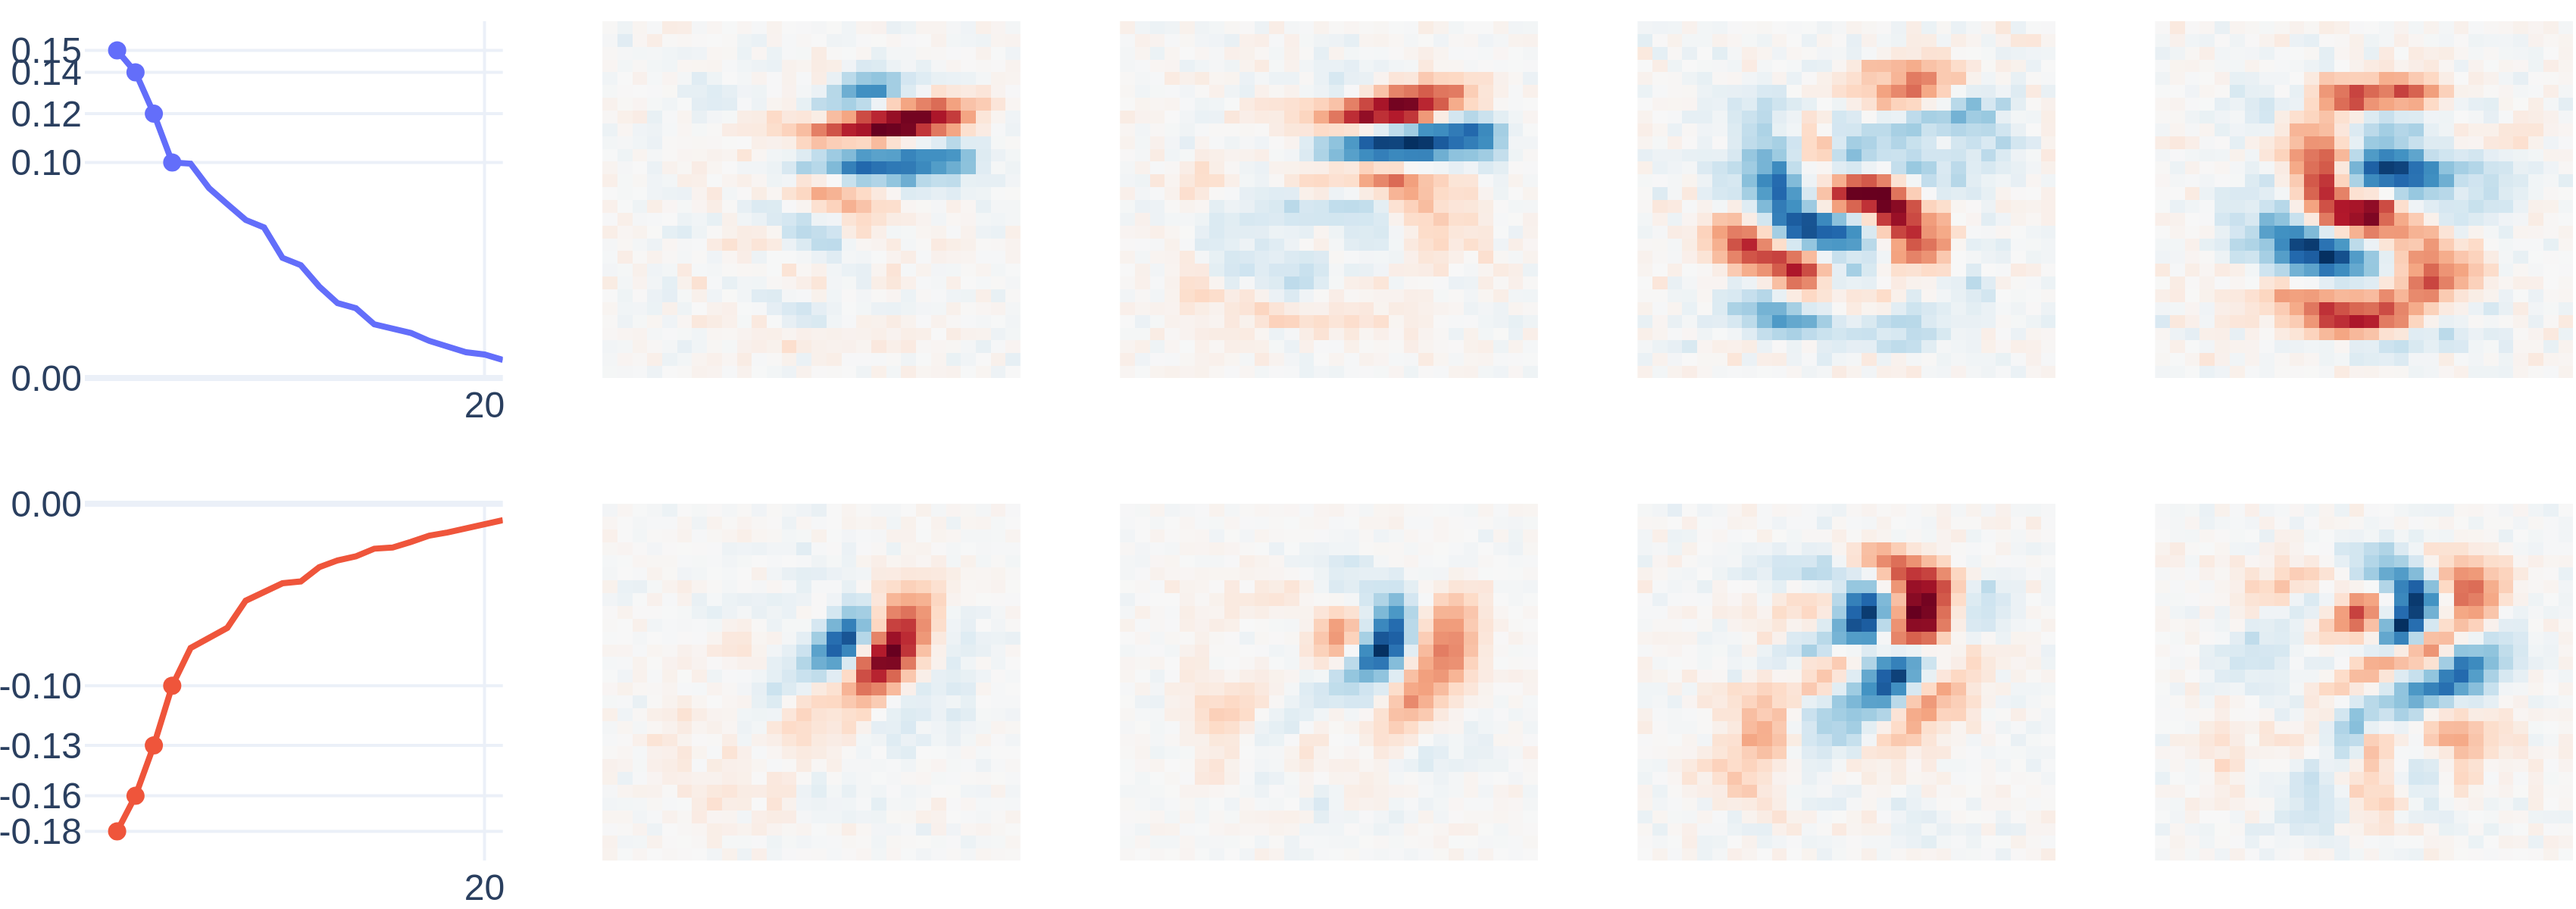
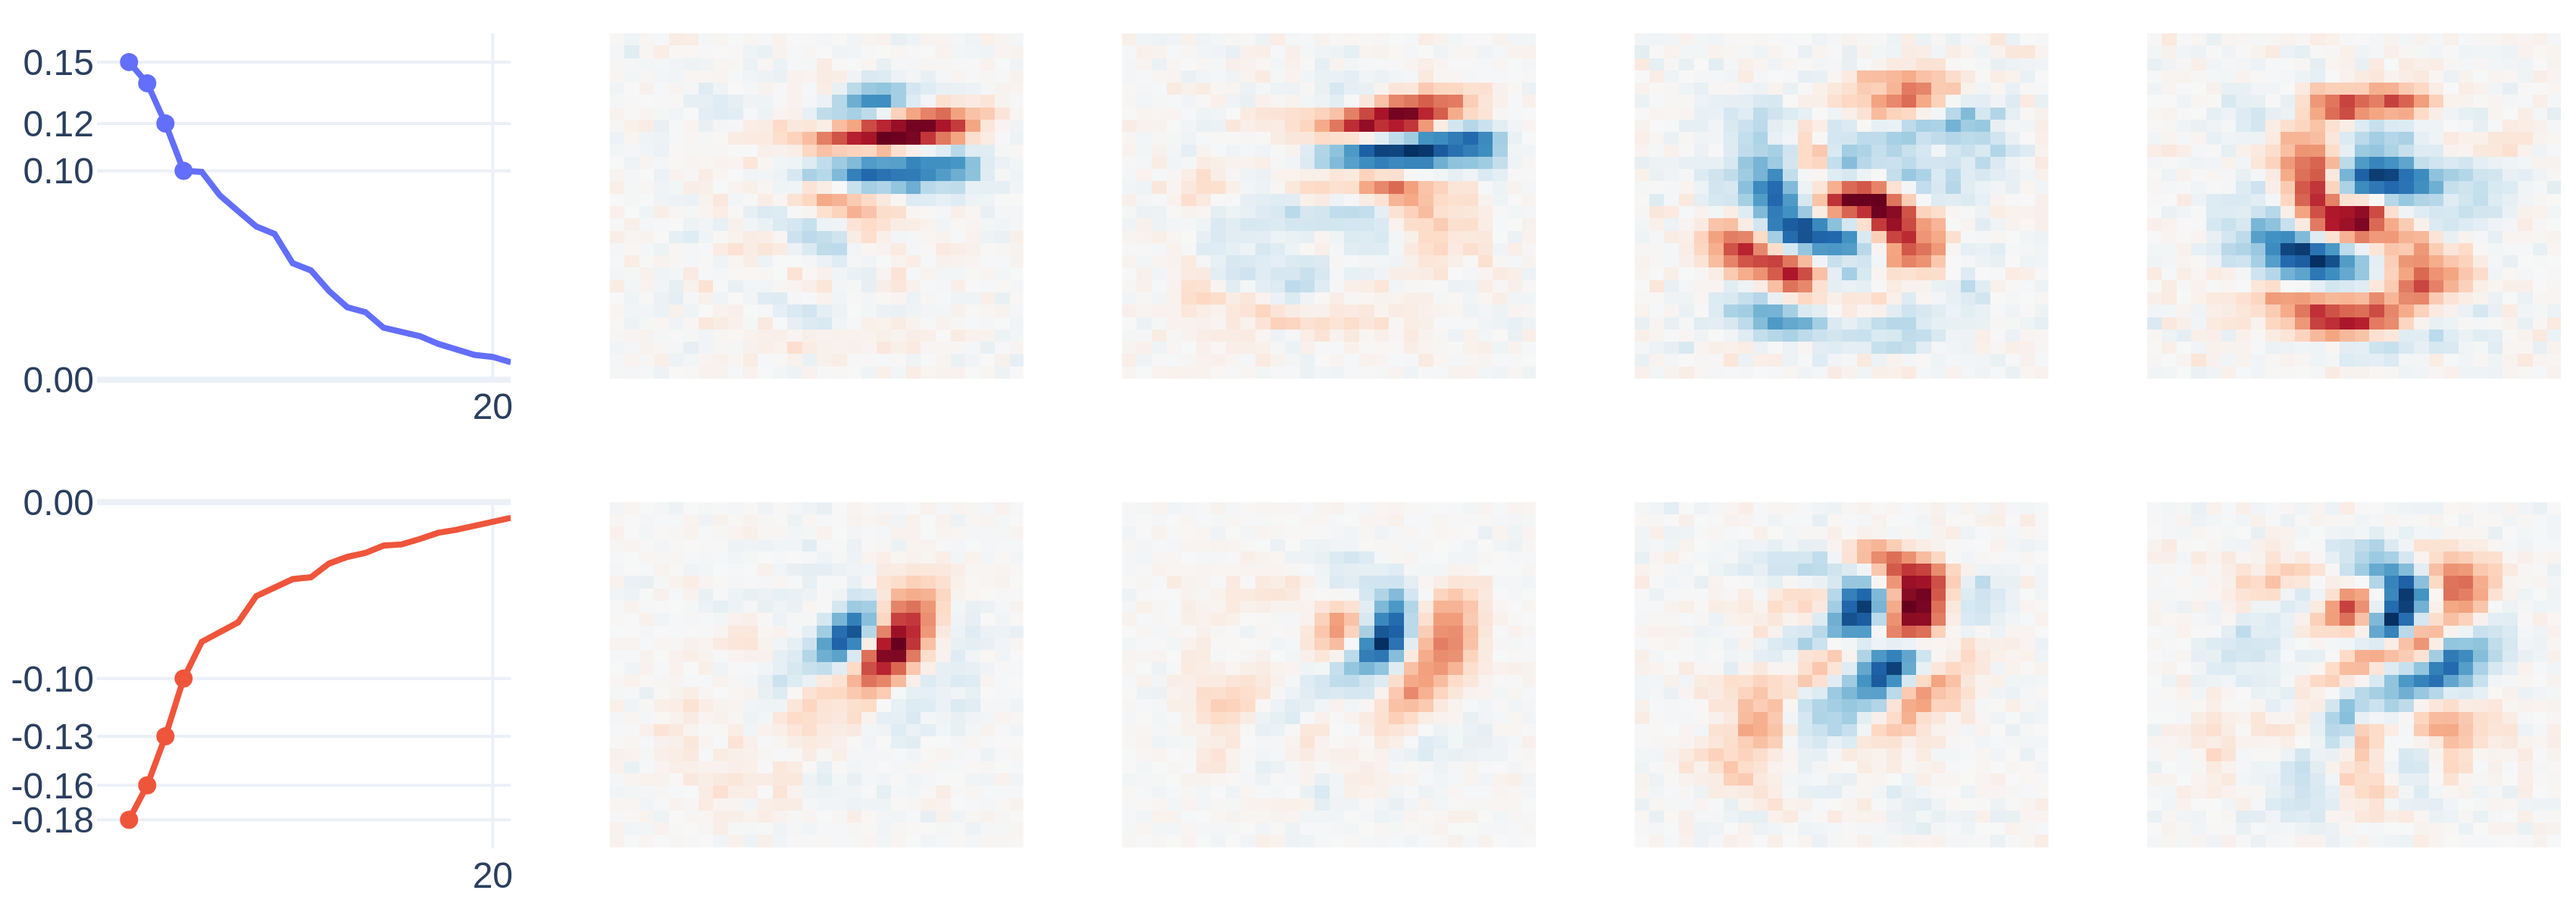
Improve figure layouts for fig_03, fig_05a, exp05 and exp11

diff --git a/extension/bilinear-full/experiments/exp11_v1_failure.py b/extension/bilinear-full/experiments/exp11_v1_failure.py
@@ -143,8 +143,9 @@ def main():
     print(f"Latent std (V2): {v2_std.round(3)}")
     print(f"V1 symmetry verified: f(z)=f(-z), max diff={max_diff:.2e}")
 
-    # Pick 5 examples per set for display
-    idx = [torch.where(labels == c)[0][0].item() for c in range(10)]
+    # Pick 6 examples for display (diverse digits with a clear v1/v2 contrast)
+    show = [0, 3, 4, 5, 7, 8]
+    idx = [torch.where(labels == c)[0][0].item() for c in show]
     imgs_show   = real_imgs[idx].view(-1, 28, 28).numpy()
     v1_r_show   = v1_recons[idx].view(-1, 28, 28).numpy()
     v2_r_show   = v2_recons[idx].view(-1, 28, 28).numpy()
@@ -154,28 +155,53 @@ def main():
         d_pos_show = v1.decode(z_idx).view(-1, 28, 28).numpy()
         d_neg_show = v1.decode(-z_idx).view(-1, 28, 28).numpy()
 
-    # Figure
-    n = 10
-    fig, axes = plt.subplots(5, n, figsize=(2.0 * n, 10),
-                              gridspec_kw={"hspace": 0.06, "wspace": 0.04})
+    # Figure: 5 image rows in two visual groups — reconstruction quality
+    # (input / v1 / v2) on top, the even-symmetry identity (f(z) vs f(-z))
+    # boxed below.  All panels come straight from the saved checkpoints.
+    n = len(show)
+    fig = plt.figure(figsize=(6.3, 4.35))
+    gs = fig.add_gridspec(6, n, height_ratios=[1, 1, 1, 0.28, 1, 1],
+                          hspace=0.06, wspace=0.05,
+                          left=0.225, right=0.985, top=0.955, bottom=0.075)
 
-    row_labels = ["real", "V1 recon", "V2 recon", "V1: f(z)", "V1: f(−z)\n≡f(z)"]
-    rows = [imgs_show, v1_r_show, v2_r_show, d_pos_show, d_neg_show]
-
-    for row_i, (row_data, rlbl) in enumerate(zip(rows, row_labels)):
+    row_specs = [
+        (0, imgs_show,  "input"),
+        (1, v1_r_show,  f"v1 recon\nMSE {v1_mse:.3f}"),
+        (2, v2_r_show,  f"v2 recon (+skip)\nMSE {v2_mse:.3f}"),
+        (4, d_pos_show, "v1 decode(z)"),
+        (5, d_neg_show, "v1 decode(−z)"),
+    ]
+    axd = {}
+    for gr, row_data, rlbl in row_specs:
         for col_i in range(n):
-            axes[row_i, col_i].imshow(row_data[col_i], cmap="gray_r", vmin=0, vmax=1)
-            _clean(axes[row_i, col_i])
-            if row_i == 0:
-                axes[row_i, col_i].set_title(f"d{col_i}", fontsize=9)
-        axes[row_i, 0].set_ylabel(rlbl, fontsize=8, labelpad=4)
+            ax = fig.add_subplot(gs[gr, col_i])
+            ax.imshow(row_data[col_i], cmap="gray_r", vmin=0, vmax=1)
+            _clean(ax)
+            if gr == 0:
+                ax.set_title(f"{show[col_i]}", fontsize=8, pad=2)
+            if col_i == 0:
+                ax.text(-0.18, 0.5, rlbl, transform=ax.transAxes,
+                        ha="right", va="center", fontsize=8.5,
+                        fontweight="bold", linespacing=1.35)
+            axd[(gr, col_i)] = ax
 
-    fig.suptitle(f"Exp 11 — V1 failure: f(z)≡f(−z)\n"
-                 f"V1 max|f(z)−f(−z)|={max_diff:.2e}  |  "
-                 f"Recon MSE: V1={v1_mse:.4f}  V2={v2_mse:.4f}",
-                 fontsize=10, y=1.01)
-    fig.tight_layout()
-    save_fig(fig, "figures/mnist/exp11_v1_failure.png")
+    # Box the last two rows: they are pixel-identical by the even-symmetry
+    # identity of the pure bilinear decoder.
+    p_tl = axd[(4, 0)].get_position()
+    p_br = axd[(5, n - 1)].get_position()
+    pad_x, pad_y = 0.010, 0.014
+    x0, x1 = p_tl.x0 - pad_x, p_br.x1 + pad_x
+    y0, y1 = p_br.y0 - pad_y, p_tl.y1 + pad_y
+    fig.add_artist(plt.Rectangle((x0, y0), x1 - x0, y1 - y0,
+                                 transform=fig.transFigure, fill=False,
+                                 edgecolor="firebrick", linewidth=1.2,
+                                 zorder=5))
+    diff_str = "0" if max_diff == 0 else f"{max_diff:.1e}"
+    fig.text(0.5 * (x0 + x1), y0 - 0.012,
+             f"pixel-identical: max |f(z) − f(−z)| = {diff_str}",
+             ha="center", va="top", fontsize=8.5, fontweight="bold",
+             color="firebrick")
+    save_fig(fig, "figures/mnist/exp11_v1_failure.png", dpi=300)
 
     # Figure 2: latent std comparison + training curves
     fig2, axes2 = plt.subplots(1, 2, figsize=(12, 4))

diff --git a/extension/bilinear-encoder/experiments/exp05_max_activating.py b/extension/bilinear-encoder/experiments/exp05_max_activating.py
@@ -69,46 +69,56 @@ def run_test(model, loader) -> tuple[list, float]:
     return results, mean_norm
 
 
+def _clean(ax):
+    """Hide ticks and frame but keep axis labels (axis('off') erases labels)."""
+    ax.set_xticks([]); ax.set_yticks([])
+    for s in ax.spines.values():
+        s.set_visible(False)
+
+
 def plot(trained: list, random: list, mean_norm: float) -> None:
     n = len(trained)
-    fig, axes = plt.subplots(4, n, figsize=(2.0 * n, 8.0),
-                             gridspec_kw={"hspace": 0.08, "wspace": 0.05})
+    fig = plt.figure(figsize=(6.2, 1.88))
+    gs = fig.add_gridspec(4, n, height_ratios=[1, 0.36, 1, 0.36],
+                          hspace=0.06, wspace=0.06,
+                          left=0.075, right=0.995, top=0.92, bottom=0.005)
+    axes = gs.subplots()
 
     def fill(results, row_img, row_lbl, label):
         for col, r in enumerate(results):
             img  = (r["eigenvector"] * mean_norm).view(28, 28).numpy()
             vmax = max(abs(img).max(), 1e-8)
             axes[row_img, col].imshow(img, cmap="RdBu_r", vmin=-vmax, vmax=vmax)
-            axes[row_img, col].axis("off")
+            _clean(axes[row_img, col])
             if row_img == 0:
-                axes[row_img, col].set_title(f"d{r['class']}", fontsize=9)
+                axes[row_img, col].set_title(f"{r['class']}", fontsize=7.5, pad=2)
 
             tick  = "✓" if r["correct"] else f"→{r['nearest']}"
             color = "darkgreen" if r["correct"] else "firebrick"
-            axes[row_lbl, col].text(0.5, 0.65, tick, ha="center", va="center",
-                fontsize=13, color=color, transform=axes[row_lbl, col].transAxes)
-            axes[row_lbl, col].text(0.5, 0.2, f"cos={r['cos_to_true']:.2f}",
-                ha="center", va="center", fontsize=7,
+            axes[row_lbl, col].text(0.5, 0.66, tick, ha="center", va="center",
+                fontsize=8.5, color=color, fontweight="bold",
                 transform=axes[row_lbl, col].transAxes)
-            axes[row_lbl, col].axis("off")
+            axes[row_lbl, col].text(0.5, 0.08, f"cos {r['cos_to_true']:.2f}",
+                ha="center", va="center", fontsize=5.6, color="0.35",
+                transform=axes[row_lbl, col].transAxes)
+            _clean(axes[row_lbl, col])
 
         n_ok = sum(r["correct"] for r in results)
-        axes[row_img, 0].set_ylabel(f"{label}\neigenvector", fontsize=8, labelpad=4)
-        axes[row_lbl, 0].set_ylabel(f"nearest class\n({n_ok}/{n})", fontsize=8, labelpad=4)
+        axes[row_img, 0].set_ylabel(label, fontsize=7.5, fontweight="bold",
+                                    labelpad=3)
+        axes[row_lbl, 0].set_ylabel(f"{n_ok}/{n}", fontsize=6.5, labelpad=3)
 
     fill(trained, 0, 1, "trained")
-    fill(random,  2, 3, "random")
+    fill(random,  2, 3, "untrained")
 
-    fig.add_artist(plt.Line2D([0.02, 0.98], [0.505, 0.505],
-                               transform=fig.transFigure,
-                               color="gray", linestyle="--", linewidth=0.9))
-    n_tr = sum(r["correct"] for r in trained)
-    n_rn = sum(r["correct"] for r in random)
-    fig.suptitle(f"Exp 05 — Maximally activating input test\n"
-                 f"Trained: {n_tr}/{n} correct    Random: {n_rn}/{n} correct",
-                 fontsize=11, y=1.01)
+    # thin divider between the trained block and the untrained control block
+    y_mid = 0.5 * (axes[1, 0].get_position().y0 +
+                   axes[2, 0].get_position().y1)
+    fig.add_artist(plt.Line2D([0.01, 0.995], [y_mid, y_mid],
+                              transform=fig.transFigure,
+                              color="0.6", linestyle="--", linewidth=0.7))
     OUT.parent.mkdir(parents=True, exist_ok=True)
-    fig.savefig(OUT, dpi=130, bbox_inches="tight")
+    fig.savefig(OUT, dpi=300, bbox_inches="tight", pad_inches=0.02)
     plt.close(fig)
     print(f"  Saved → {OUT}")
 

diff --git a/reproduction/image/fig_05/fig_05.py b/reproduction/image/fig_05/fig_05.py
@@ -167,10 +167,13 @@ fig.update_layout(
     height=400,
     legend_title_text="Model Size",
 )
-fig.update_xaxes(title="Eigenvector rank")
-fig.update_yaxes(title="Cosine similarity", range=[0.4, 1.01])
+# Presentation only: pad the x-range so curves/bands do not run into the
+# plot border, and show the full y-range so no curve is clipped below 0.4
+# (rank-15 similarity for size 30 is ~0.13). scale=4 for print resolution.
+fig.update_xaxes(title="Eigenvector rank", range=[-0.3, 14.3])
+fig.update_yaxes(title="Cosine similarity", range=[0, 1.01])
 
-fig.write_image(HERE / "fig_05a.png")
+fig.write_image(HERE / "fig_05a.png", scale=4)
 
 # =====================================
 # FIGURE 2 — Truncation error across sizes

diff --git a/reproduction/image/fig_03/fig_03.py b/reproduction/image/fig_03/fig_03.py
@@ -65,7 +65,15 @@ fig = plot_eigenspectrum(
     digit=5,
     eigenvectors=4,
     eigenvalues=20,
+    # Presentation only: the top two positive eigenvalues are ~0.01 apart,
+    # so their y-tick labels overlap; drop the second label (the marker
+    # itself is still plotted).
+    ignore_pos=[1],
 )
+
+# Presentation only: small margins so edge tick labels are not flush
+# with the image border.
+fig.update_layout(margin=dict(l=4, r=4, b=4, t=10))
 
 fig.write_image(HERE / "fig_03.png", scale=4)
 
